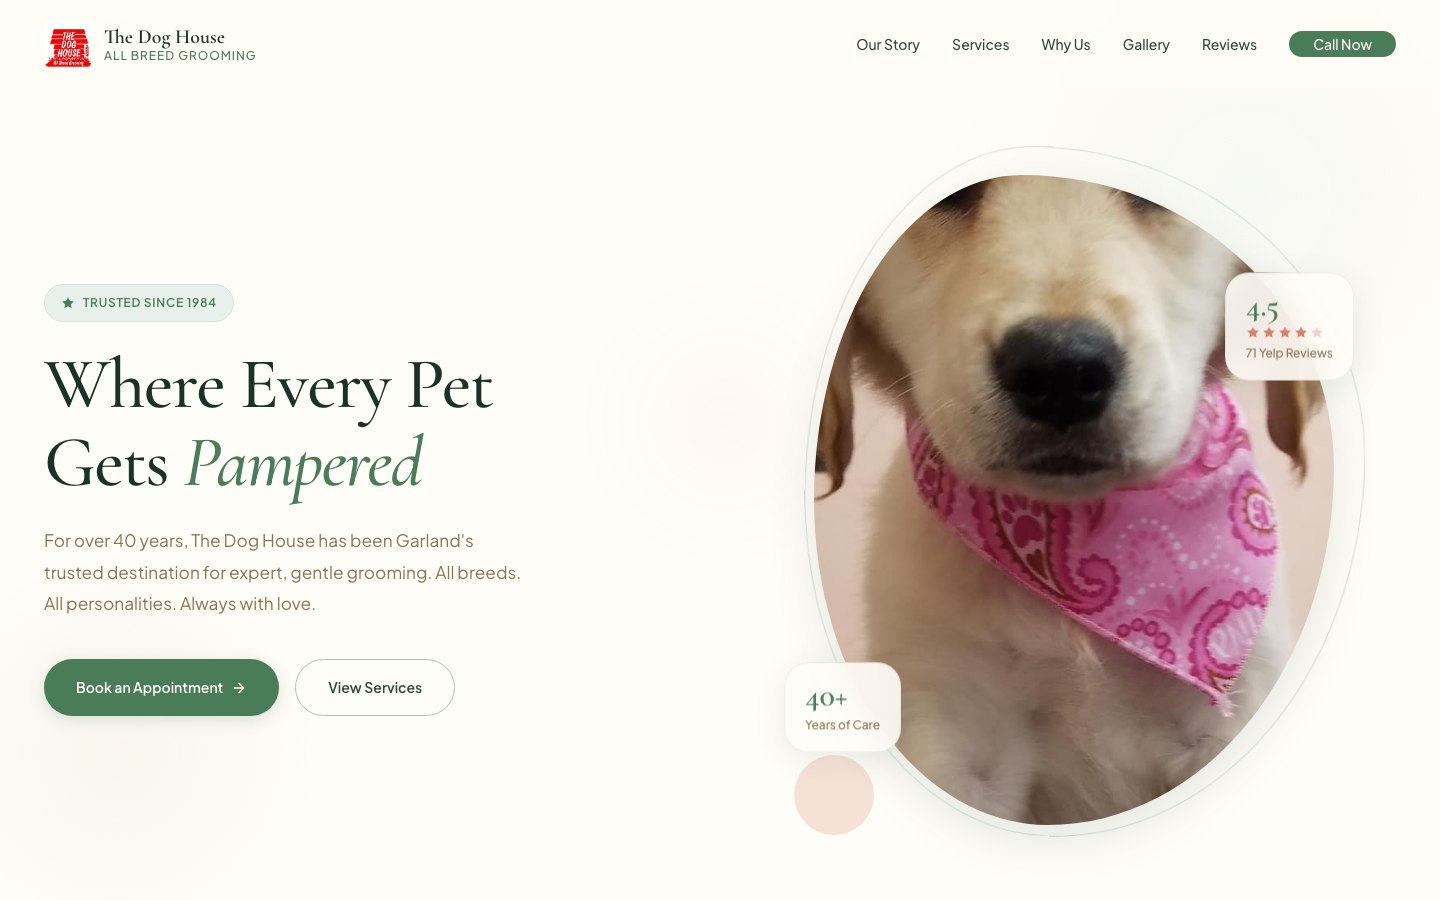
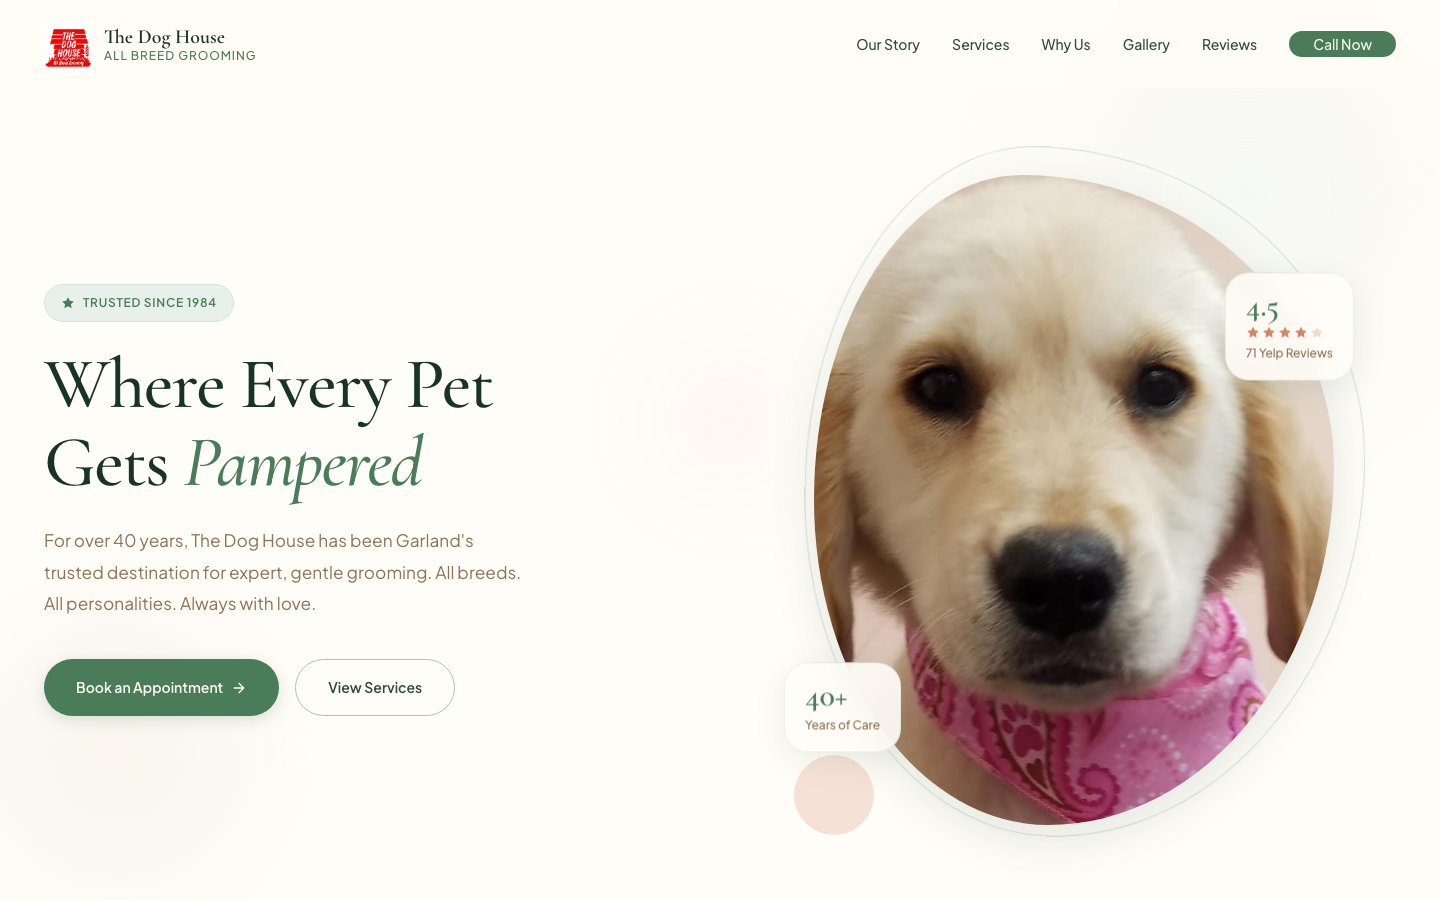
Fixed dog image cropping — show full head with object-position: top
The portrait dog01.jpg was being cropped at center, cutting off
the puppy's head and ears. Added object-position: top to all
hero, about/story, and gallery image containers across all 3
concept pages. Recaptured index preview screenshots.

Changed region(s): [[0.5625, 0.1867, 0.9375, 0.9333]]

diff --git a/docs/doghouse/coastal-luxe/index.html b/docs/doghouse/coastal-luxe/index.html
@@ -591,6 +591,7 @@
             height: auto;
             aspect-ratio: 4 / 5;
             object-fit: cover;
+            object-position: top;
             border-radius: 40% 60% 55% 45% / 50% 45% 55% 50%;
             box-shadow: var(--shadow-elevated);
         }
@@ -757,6 +758,7 @@
             width: 100%;
             height: 380px;
             object-fit: cover;
+            object-position: top;
         }
 
         .story__img-secondary {
@@ -774,6 +776,7 @@
             width: 100%;
             height: 280px;
             object-fit: cover;
+            object-position: top;
         }
 
         /* Decorative element between images */
@@ -1151,6 +1154,7 @@
             width: 100%;
             height: 400px;
             object-fit: cover;
+            object-position: top;
             transition: transform var(--duration-slow) var(--ease-out);
         }
 

diff --git a/docs/doghouse/heritage-bloom/index.html b/docs/doghouse/heritage-bloom/index.html
@@ -404,6 +404,7 @@
             width: 100%;
             aspect-ratio: 4 / 5;
             object-fit: cover;
+            object-position: top;
         }
         /* Decorative paw near the image */
         .hero__deco {
@@ -464,6 +465,7 @@
             width: 100%;
             aspect-ratio: 4 / 5;
             object-fit: cover;
+            object-position: top;
         }
         .story__content {
             max-width: 500px;
@@ -661,6 +663,7 @@
             width: 100%;
             aspect-ratio: 4 / 5;
             object-fit: cover;
+            object-position: top;
         }
 
         /* ========================================

diff --git a/docs/doghouse/warm-elegance/index.html b/docs/doghouse/warm-elegance/index.html
@@ -445,6 +445,7 @@
             display: block;
             aspect-ratio: 4 / 5;
             object-fit: cover;
+            object-position: top;
         }
 
         .hero__image-frame::after {
@@ -536,6 +537,7 @@
             width: 100%;
             aspect-ratio: 3 / 4;
             object-fit: cover;
+            object-position: top;
         }
 
         .about__year-badge {
@@ -873,6 +875,7 @@
             width: 100%;
             aspect-ratio: 4 / 3;
             object-fit: cover;
+            object-position: top;
             transition: transform 0.6s var(--ease-elegant);
         }
 
